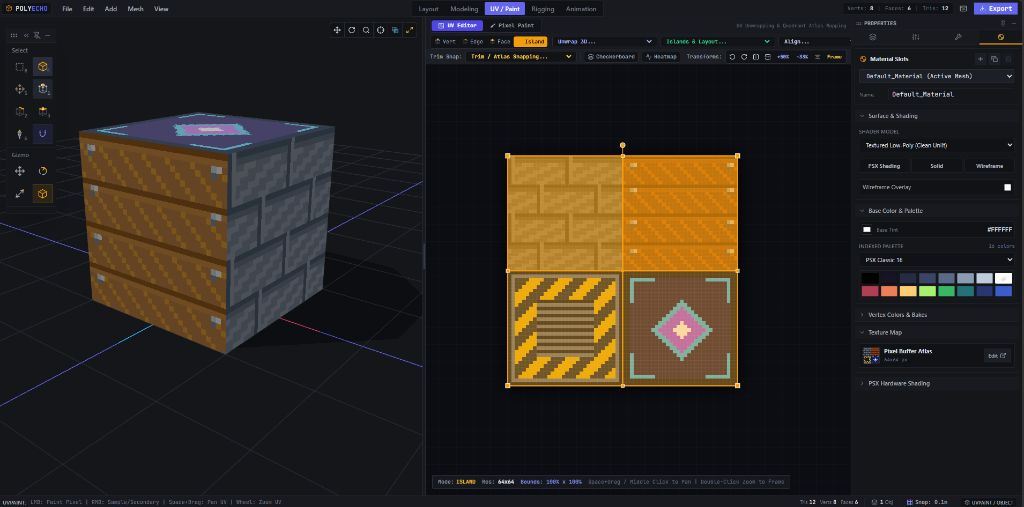
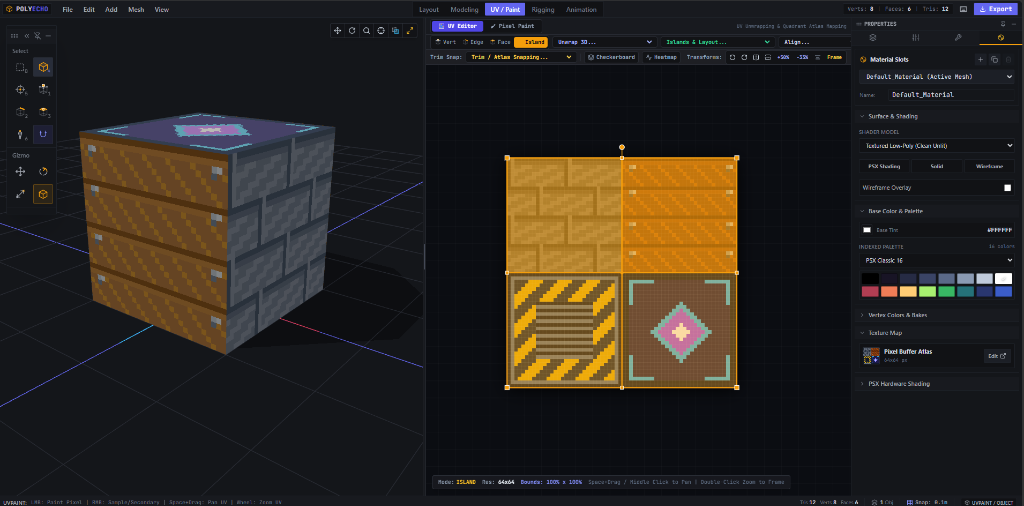
docs: update README screenshot and document X-Ray, Box Select, and Bone modes

diff --git a/README.md b/README.md
@@ -24,7 +24,9 @@ PolyEcho combines four integrated workspaces:
 ## Features
 
 ### 1. Essential Low-Poly Modeling
-- **Selection Modes**: Object (`4`), Origin/Pivot (`5`), Vertex (`1`), Edge (`2`), Face (`3`).
+- **Selection Modes**: Object (`4`), Origin/Pivot (`5`), Bone Mode (`6`), Vertex (`1`), Edge (`2`), Face (`3`).
+- **Marquee Selection**: Perforated one-shot Box Select (`B` / `Ctrl+LMB Drag`) across 3D viewport, bones, and UV Editor.
+- **Viewport Shading & X-Ray**: Clean Textured, Solid, Wireframe, Retro PSX affine/jitter shaders, and Blender-style **X-Ray Mode (`Alt+Z`)** with in-viewport glassmorphic toggle and `Z` pie menu.
 - **Modal Operators**: Move (`G`), Rotate (`R`), Scale (`S`), Extrude (`E`), Inset (`I`), Bevel (`Ctrl+B`), Knife Topology (`K`), Loop Cut & Slide (`Ctrl+R`).
 - **Topology Operations**:
   - Merge at Center (`M`), First, Last, and Distance (Weld).
